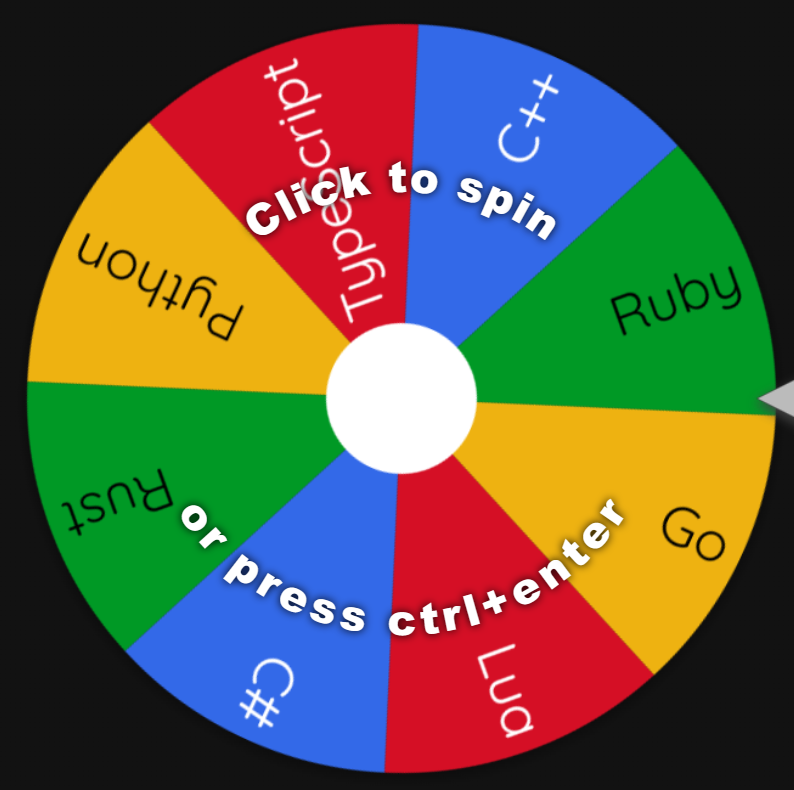
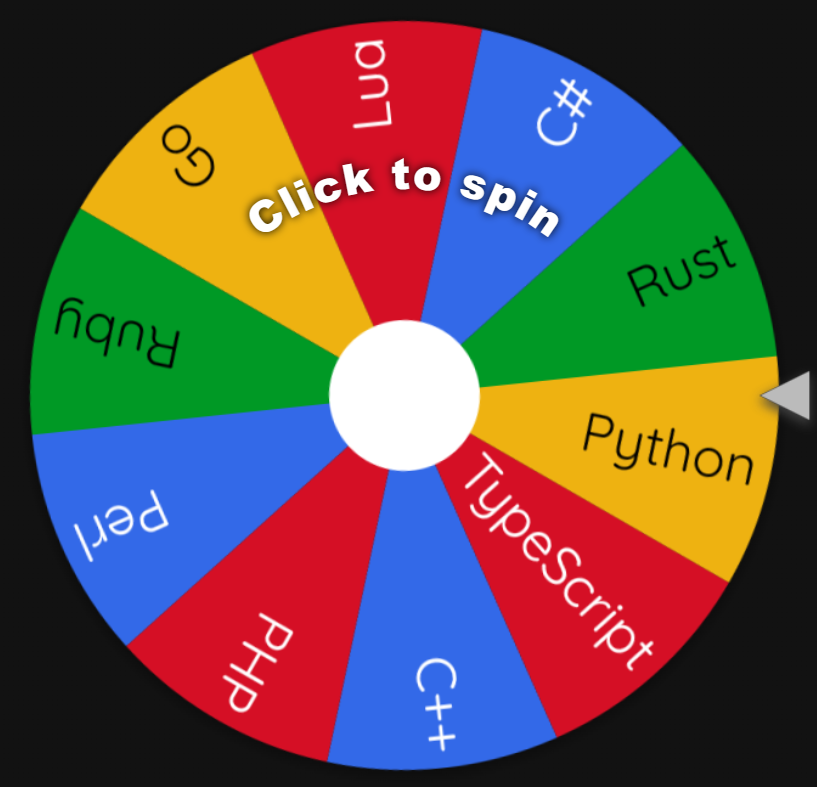
Add more languages to wheel

diff --git a/readme.md b/readme.md
@@ -2,6 +2,6 @@
 
 I will be doing the AOC 2023 with a twist, I will use a wheel to decide the language I will use for each day.
 
-The wheel consists of eight different languages, and includes both ones I know and ones I don't know. I will potentially add more languages to the wheel if I feel like it.
+The wheel consists of ten different languages, and includes both ones I know and ones I don't know. I will potentially add more languages to the wheel if I feel like it.
 
-[![Wheel](wheel.png)](https://olback.github.io/advent-of-code-2023/)
+[![Wheel](wheel.png)](https://wheelofnames.com/ams-xkw)
